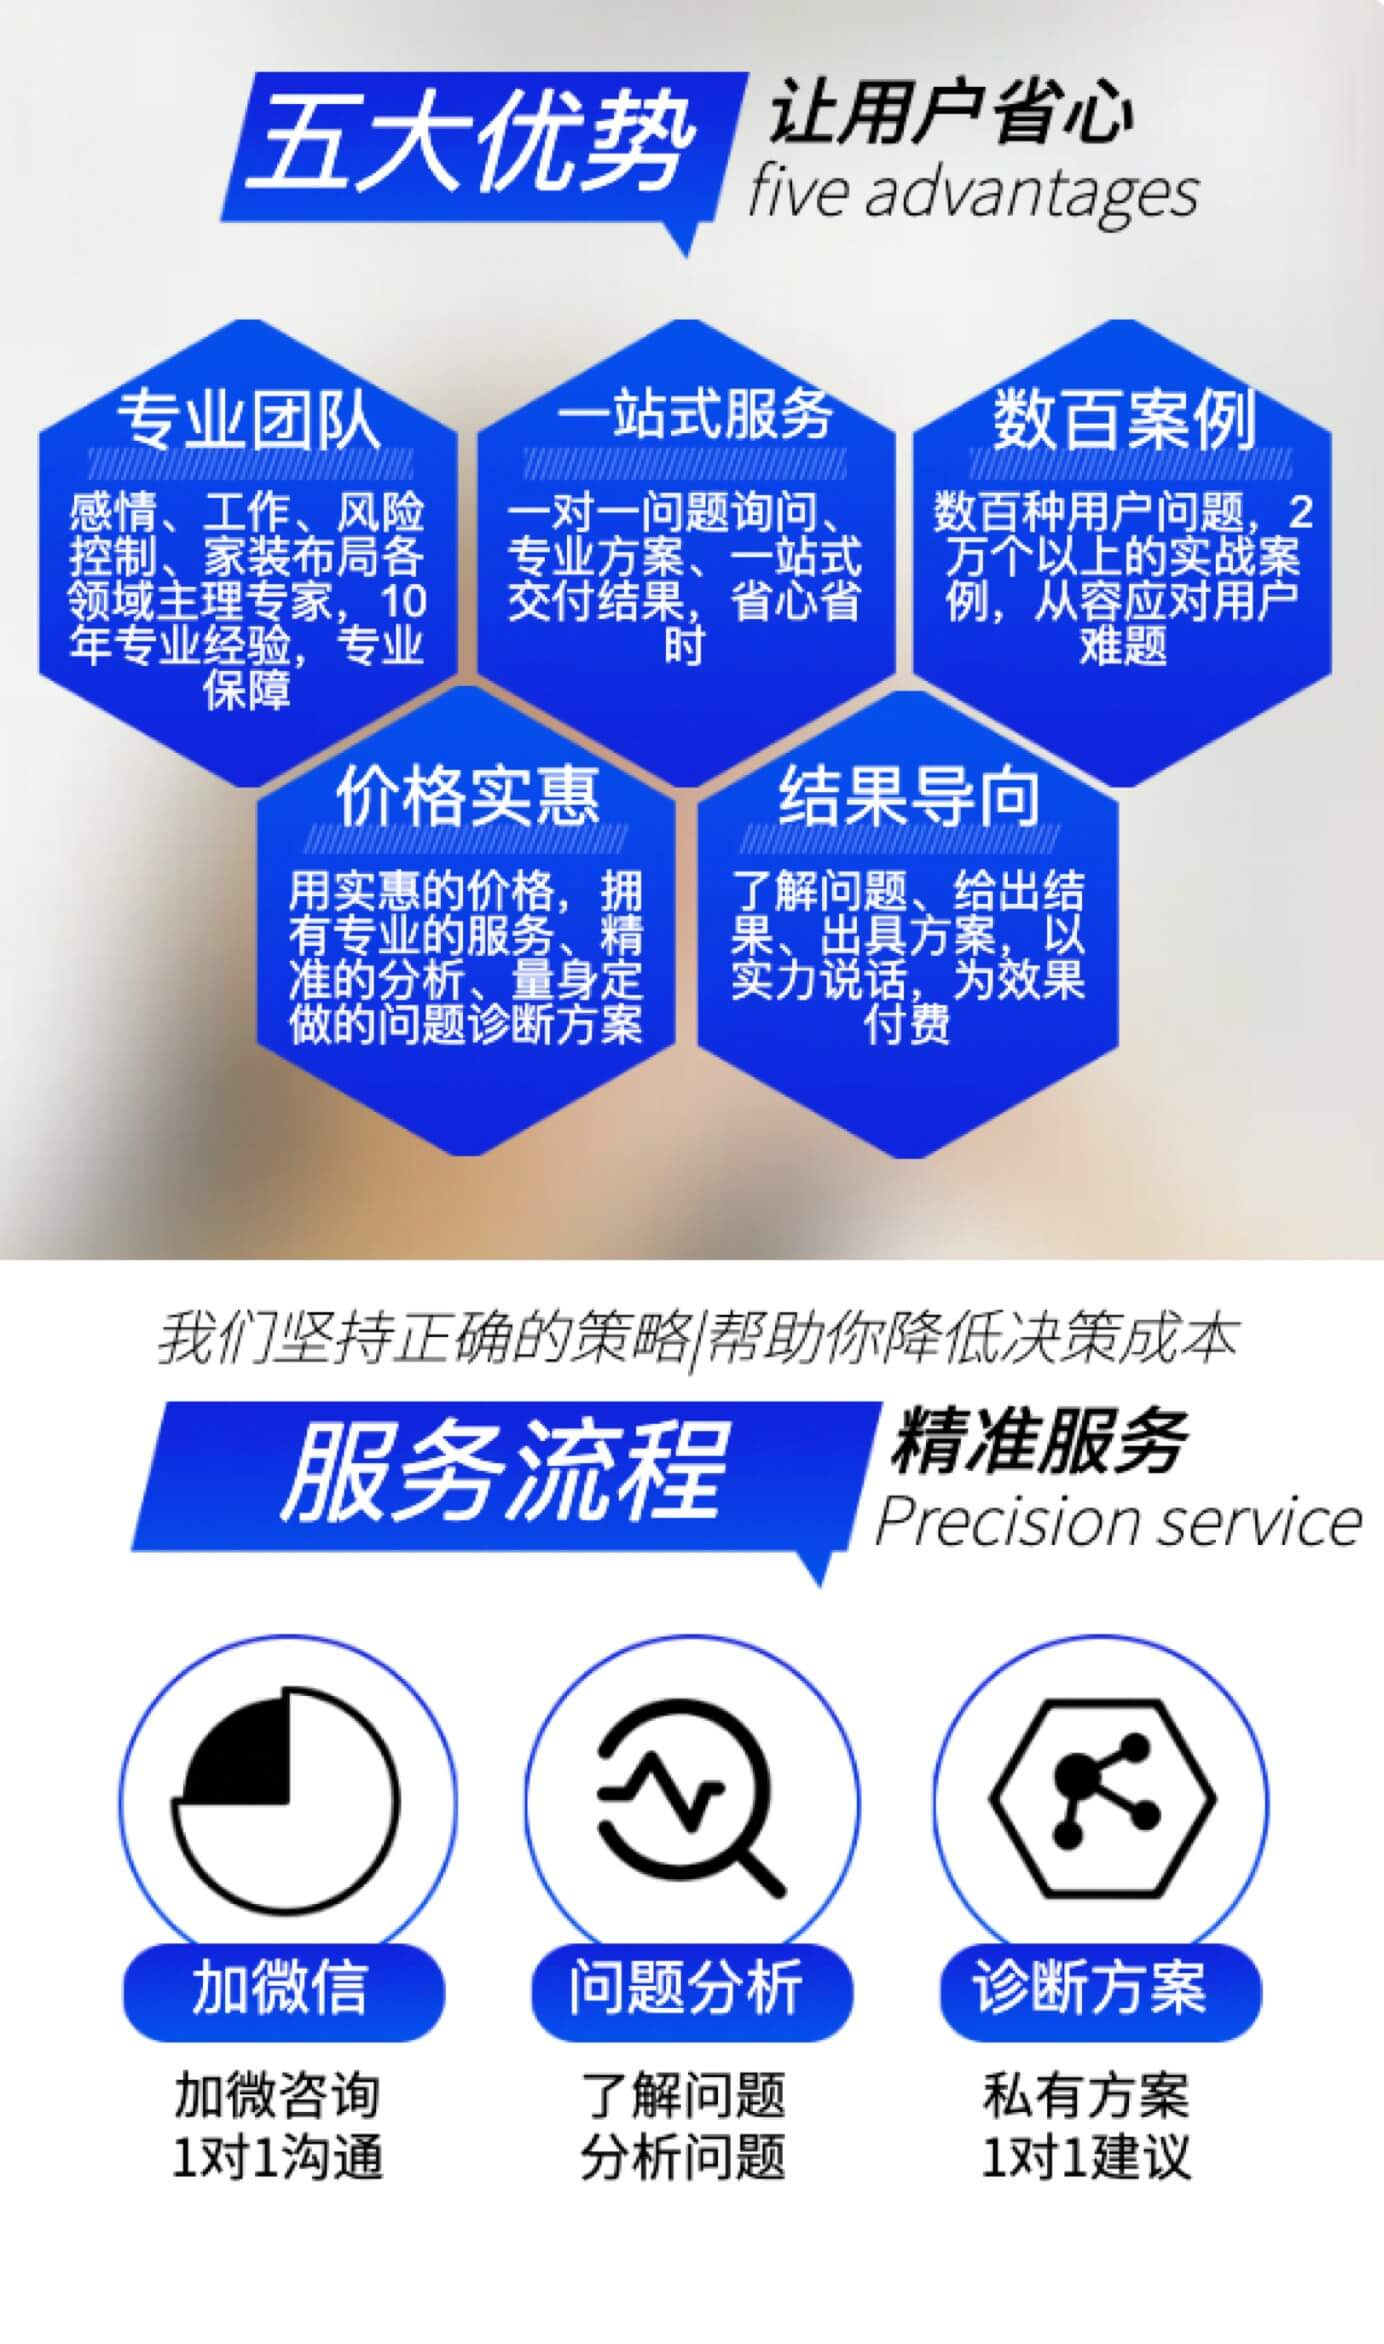
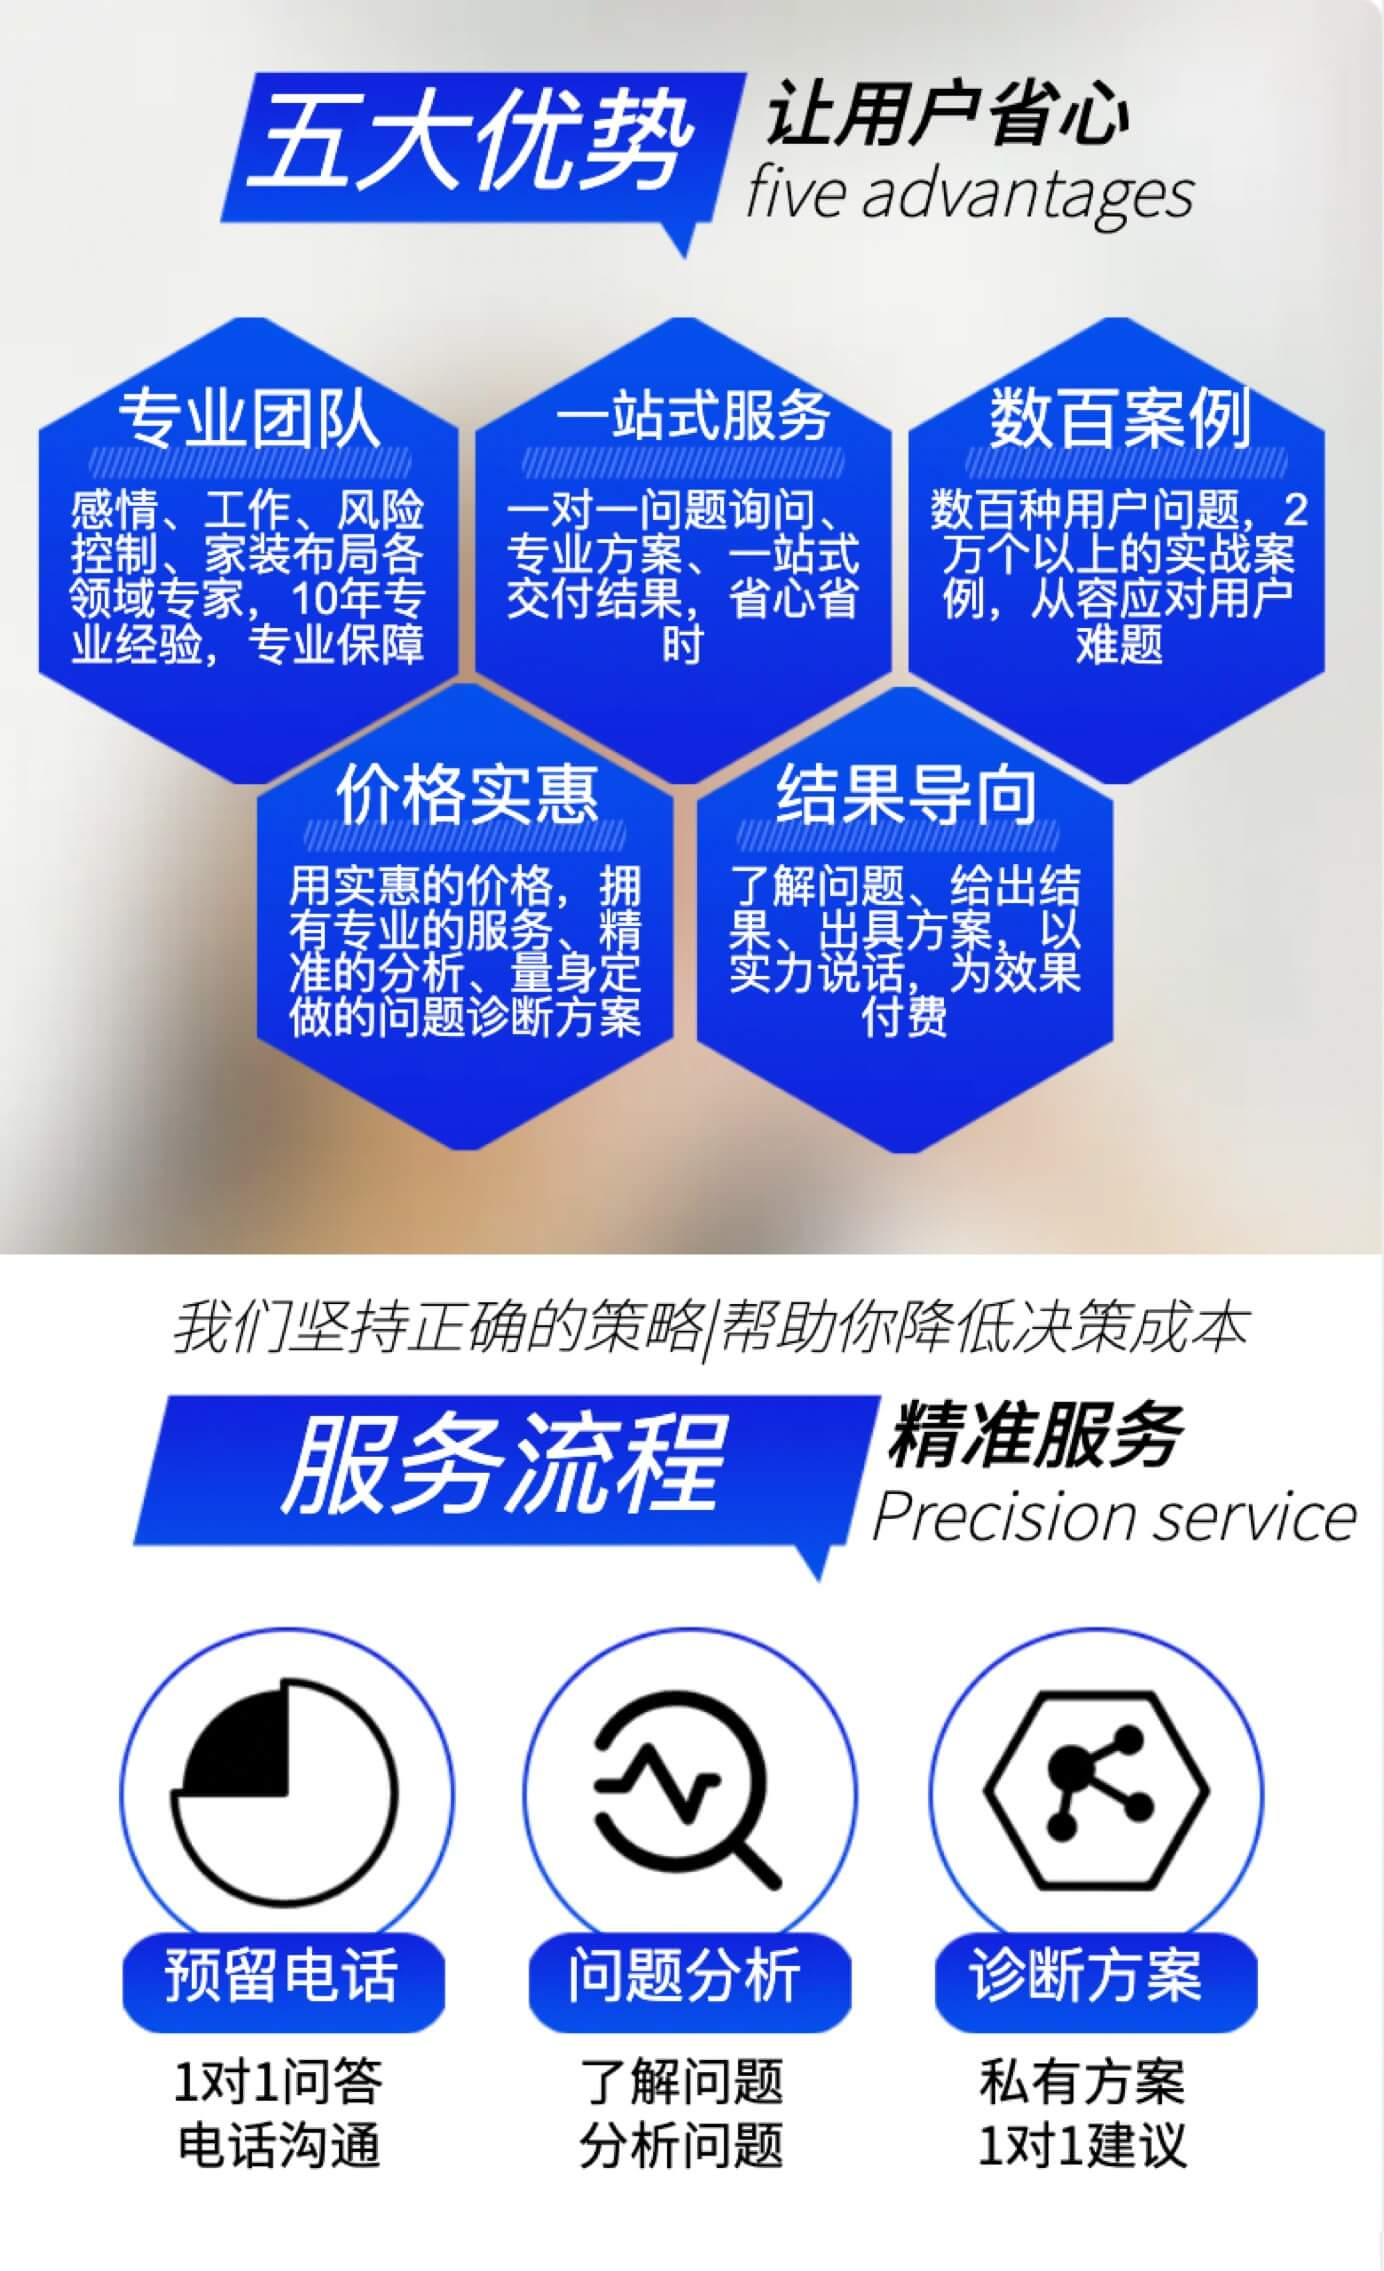
add pc page ,update img

diff --git a/src/pages/index/index.vue b/src/pages/index/index.vue
@@ -12,11 +12,23 @@
           @touchstart="touchstart" @touchend="touchend" />
       </div>
     </div>
-    <div class="imgBox">
+    <div class="contentBox">
       <img class="oneImg" v-for="(item, index) in 3" :key="index" :src="require(`@/assets/img${index}.jpg`)"
         draggable="false" />
+      <div class="submitFormBox" v-if="!isMobile">
+        <div class="submitOne" v-for="(item, index) in ['您的名字', '您的电话']" :key="index">
+          {{item}}<span class="submitMark">*</span><input class="submitInput" type="text" v-model="submitArr[index]" :placeholder="`请输入${item}`">
+        </div>
+      </div>
+      <div class="companyIntroduce">
+        <div class="introduceOne" v-for="(item, index) in companyArr" :key="index">
+          <span class="introduceText">{{item.title}}</span>
+          <span class="introduceCont">{{item.cont}}</span>
+        </div>
+      </div>
     </div>
-    <button class="showQrcord" @click="centerDialogVisible = true">立即咨询</button>
+
+    <button class="showQrcord" @click="clickSubmitButton">{{isMobile ? '立即咨询' : '提   交' }}</button>
 
   </div>
 </template>
@@ -27,7 +39,14 @@ export default {
     return {
       longProssTimer: null,
       centerDialogVisible: false,
-      qrCodeImg: 'https://fuli-img.oss-cn-beijing.aliyuncs.com/avatar/cq.png'
+      qrCodeImg: 'https://fuli-img.oss-cn-beijing.aliyuncs.com/avatar/cq.png',
+      isMobile: ["Android", "iPhone", "SymbianOS", "Windows Phone", "iPad", "iPod"].some(value => navigator.userAgent.includes(value)),
+      submitArr: [],
+      companyArr: [
+        {title: '公司：', cont: '莆田上德若谷企业管理有限公司'},
+        {title: '地址：', cont: '福建省莆田市荔城区拱辰街道东圳东路1199号中海天下1号楼1401室'},
+        {title: '电话：', cont: '0594-79976666'},
+      ]
     }
   },
   components: {
@@ -74,6 +93,18 @@ export default {
     },
     touchend() {
       clearTimeout(this.longProssTimer)
+    },
+    clickSubmitButton () {
+      if (this.isMobile) {
+        this.centerDialogVisible = true
+        return false
+      }
+      if (!this.submitArr[0] || !this.submitArr[1]) {
+        Message.error(!this.submitArr[0] ? '请输入姓名' : '请输入电话')
+        return false
+      }
+      Message.success('提交成功')
+      this.submitArr = []
     },
   },
   created() {
@@ -140,7 +171,7 @@ export default {
     }
   }
 
-  .imgBox {
+  .contentBox {
     width: 100%;
     flex: 1;
     overflow-y: auto;
@@ -150,11 +181,51 @@ export default {
       width: 100%;
       display: block;
     }
+
+    .submitFormBox {
+      width: 100%;
+      background: #fff;
+      padding: 24px;
+
+      .submitOne{
+        display: flex;
+        align-items: center;
+        justify-content: center;
+        color: #333;
+        font-size: 14px;
+        .submitMark{
+          color: #f66;
+          margin: 0 4px 0 6px;
+          height: 12px;
+        }
+        .submitInput{
+          flex: 1;
+          height: 40px;
+          color: #999;
+          border-bottom: 1px solid #ccc;
+        }
+      }
+    }
+    .companyIntroduce{
+      width: 100%;
+      background: #eee;
+      padding: 12px 24px;
+      .introduceOne{
+        line-height: 17px;
+        font-size: 15px;
+        margin: 8px 0;
+        color: #999;
+        display: inline-block;
+        width: 100%;
+        text-align: left;
+      }
+    }
   }
+
+  
 
   .showQrcord {
     width: calc(~"100% - 80px");
-    ;
     margin: 10px auto 40px;
     height: 40px;
     display: flex;
